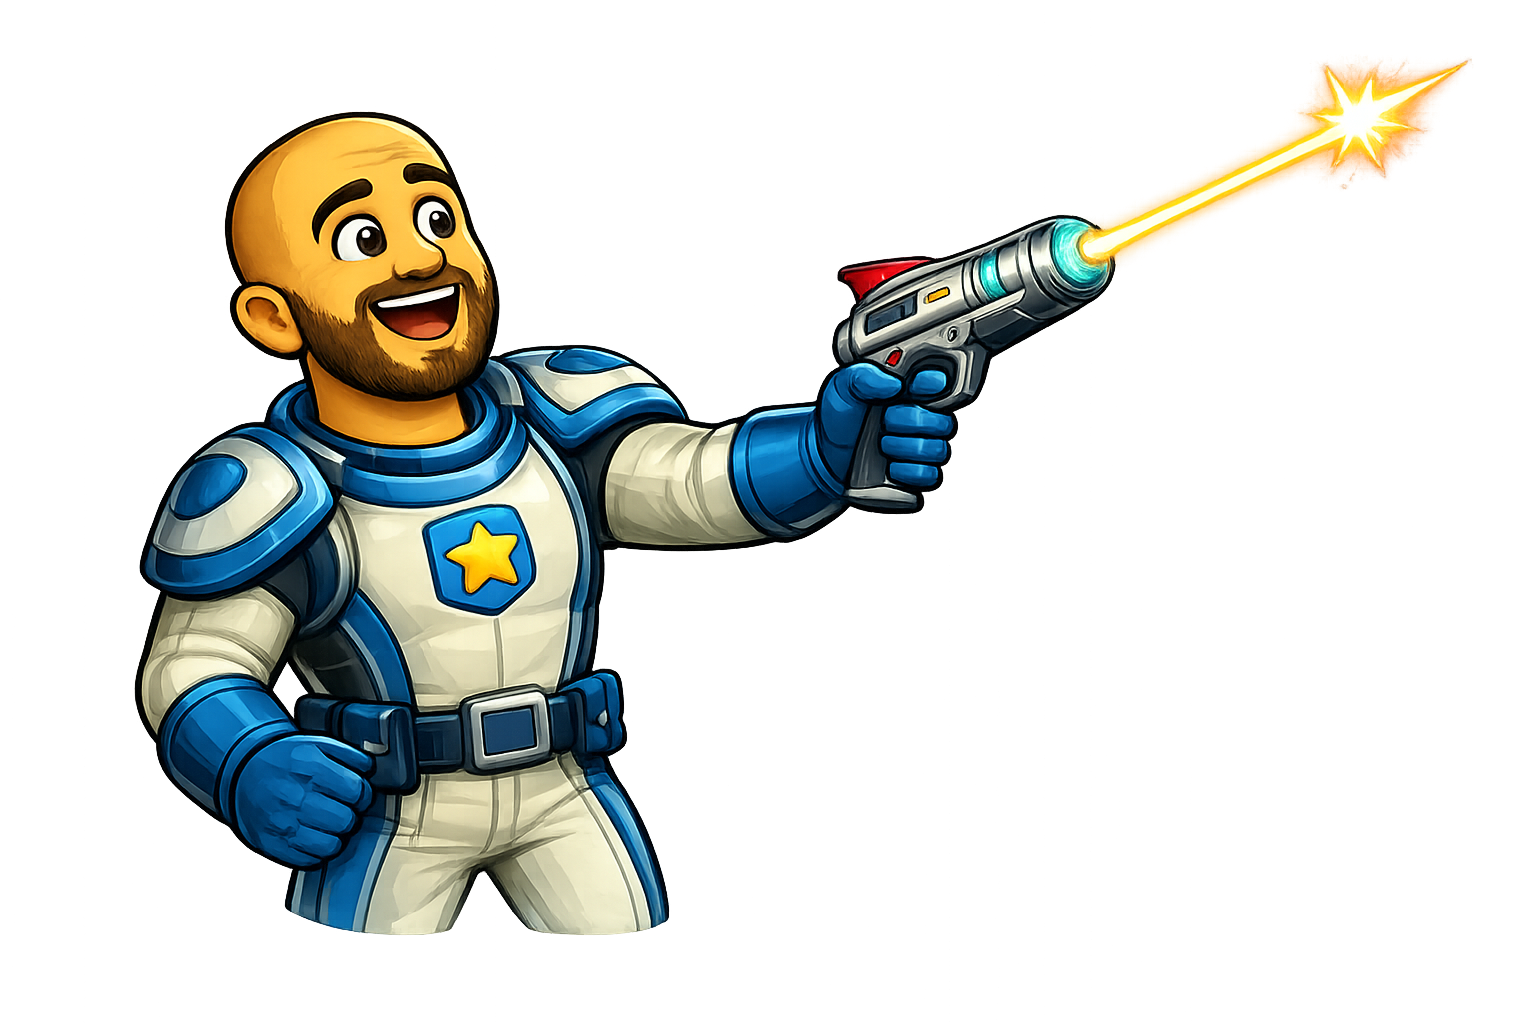
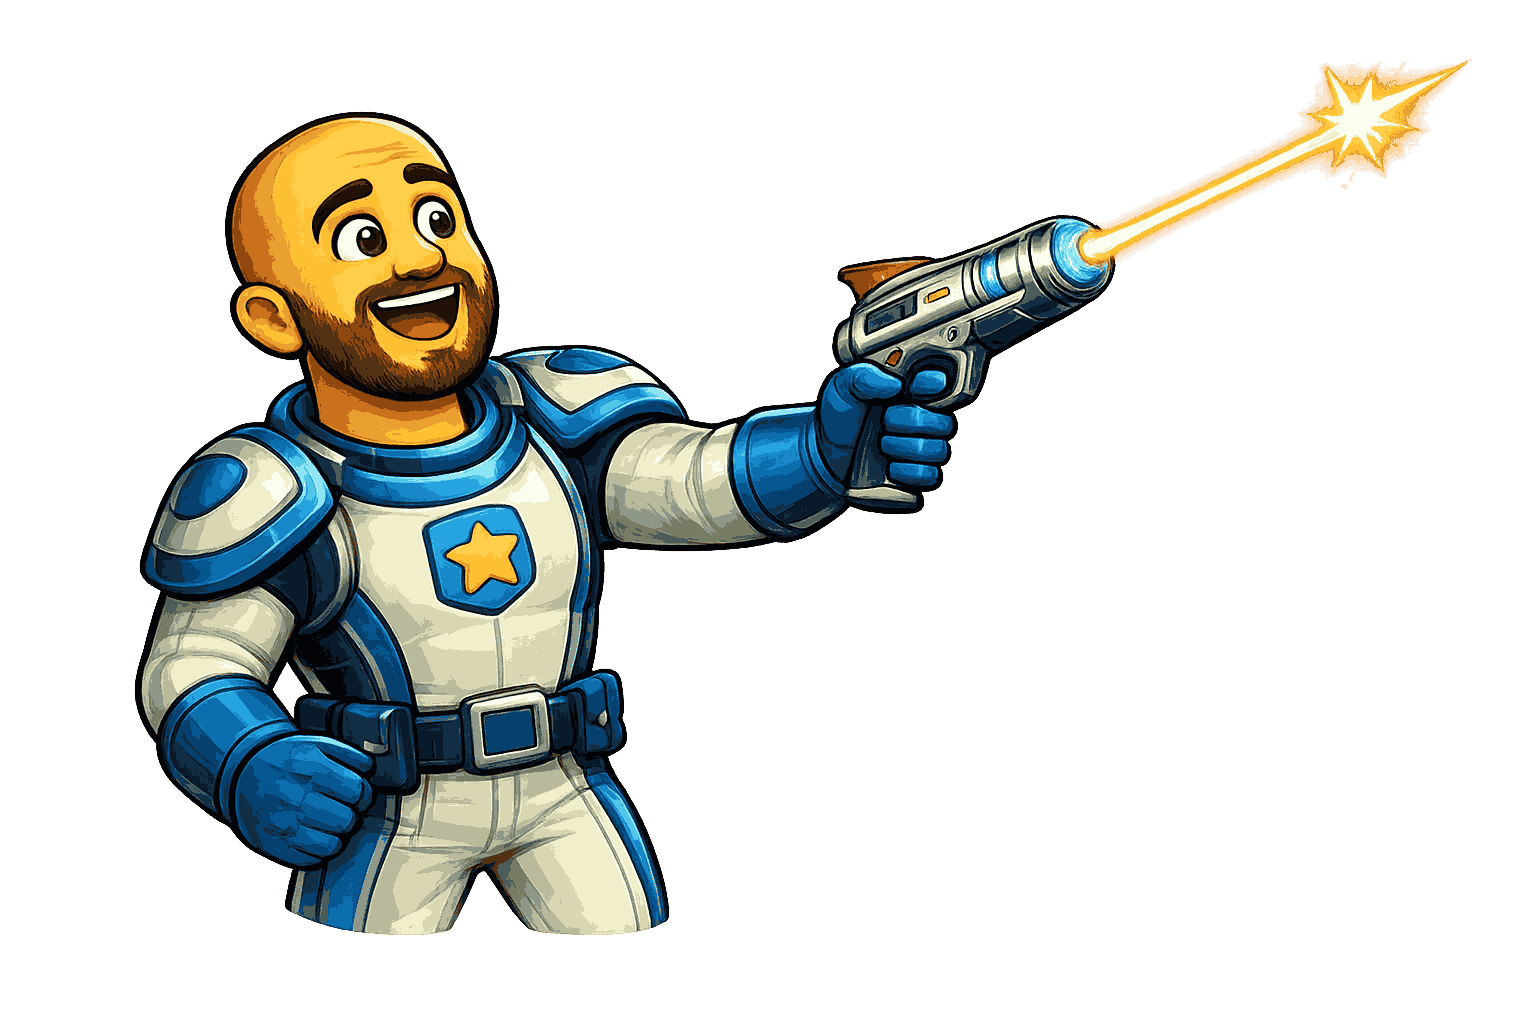
added low res resources

diff --git a/index.html b/index.html
@@ -121,6 +121,8 @@ href="https://cdnjs.cloudflare.com/ajax/libs/font-awesome/6.5.1/css/all.min.css"
 					alt="OK Adventure">
 
 				</div>
+				
+				<span>More coming up...</span>
 
 		</div>
 
